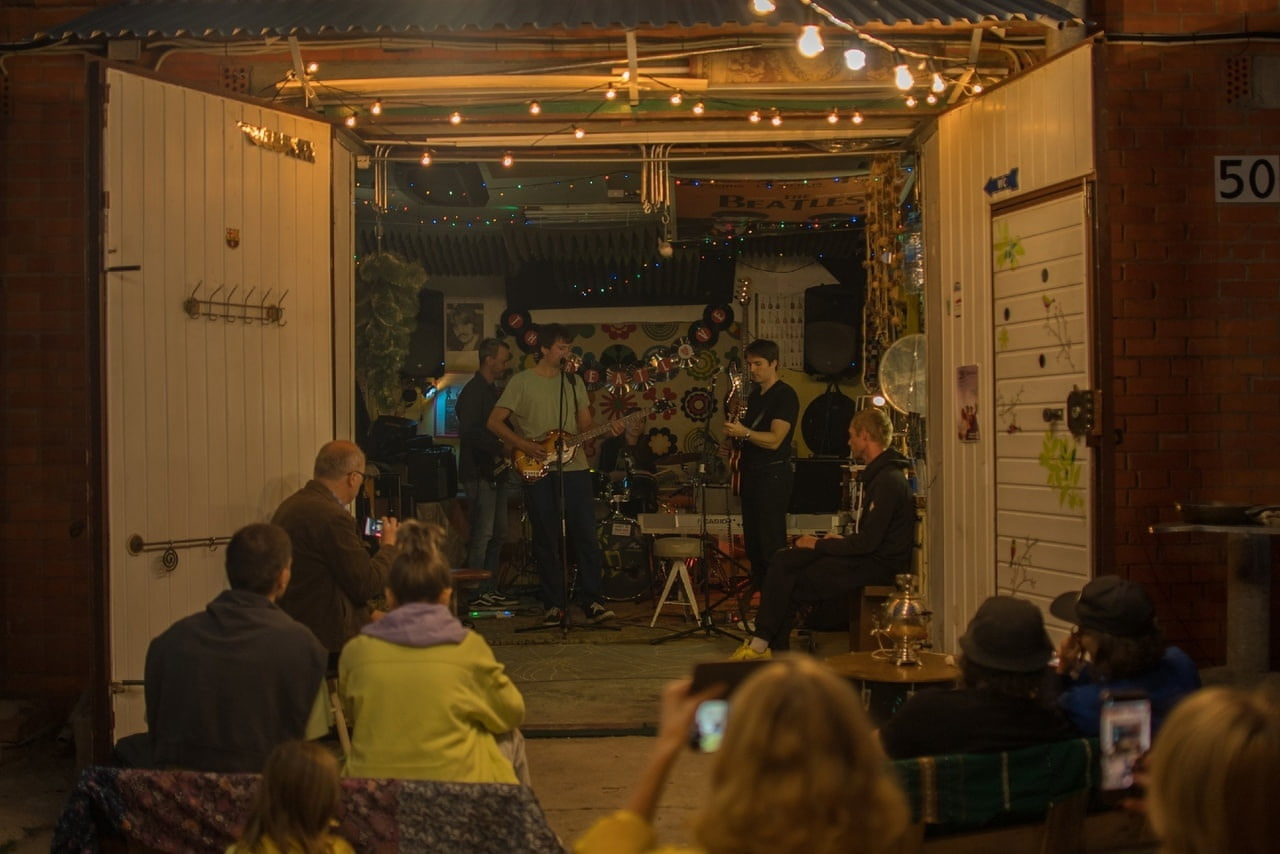
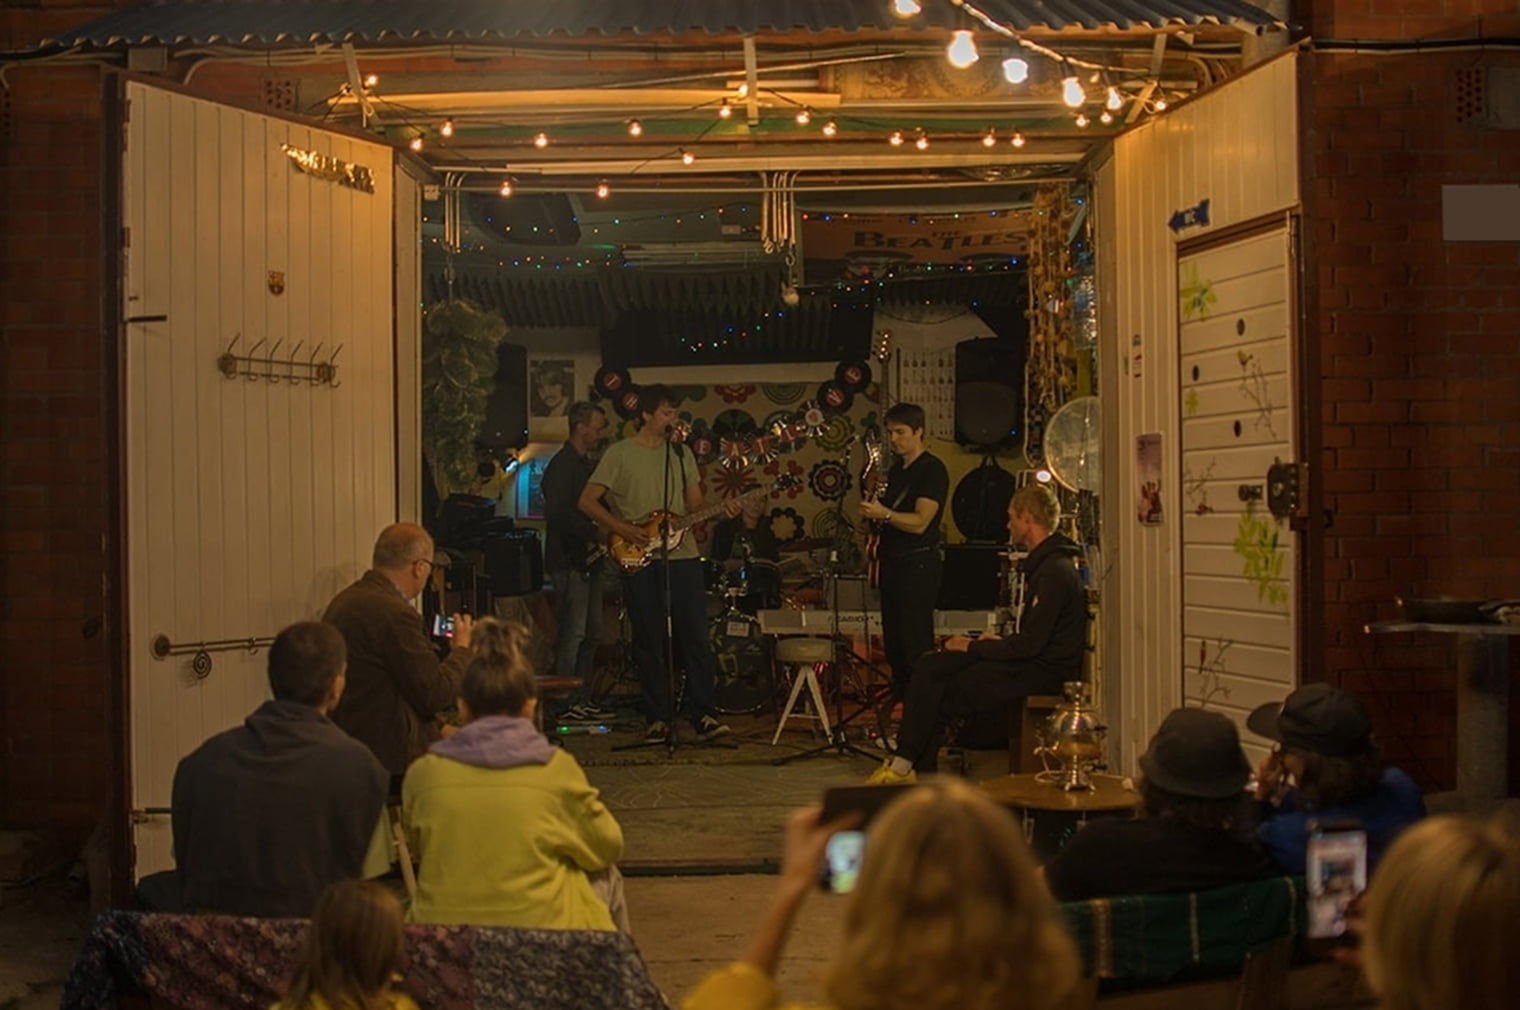
fix: Gleb images

diff --git a/pages/article/gleb-garage/index.jsx b/pages/article/gleb-garage/index.jsx
@@ -453,21 +453,6 @@ export default function Article() {
                 с&nbsp;детьми, ставили столики, но&nbsp;это тоже был узкий круг.
               </Paragraph>
 
-              <ImageContainer>
-                <Image
-                  quality={100}
-                  src="/article/gleb-garage/shaposhnikov.jpg"
-                  width="1280"
-                  height="854"
-                  alt=""
-                />
-                <Figcaption>
-                  Гаражный концерт каверов The Beatles в Протвино, август 2024
-                  <br />
-                  Автор: Павел Шапошников
-                </Figcaption>
-              </ImageContainer>
-
               <Paragraph>
                 В&nbsp;2022-м был первый раз, когда гараж открыл двери для
                 широкой аудитории. Это было мероприятие для архитекторов
@@ -527,6 +512,21 @@ export default function Article() {
                 руками поддерживаю и&nbsp;рад и&nbsp;помочь, и&nbsp;сам
                 участвовать.
               </Paragraph>
+
+              <ImageContainer>
+                <Image
+                  quality={100}
+                  src="/article/gleb-garage/shaposhnikov.jpg"
+                  width="1520"
+                  height="1010"
+                  alt="Гаражный концерт каверов The Beatles в Протвино, август 2024"
+                />
+                <Figcaption>
+                  Гаражный концерт каверов The Beatles в Протвино, август 2024
+                  <br />
+                  Автор: Павел Шапошников
+                </Figcaption>
+              </ImageContainer>
 
               <Paragraph>
                 Этим летом мы&nbsp;провели первый концерт на&nbsp;широкую
